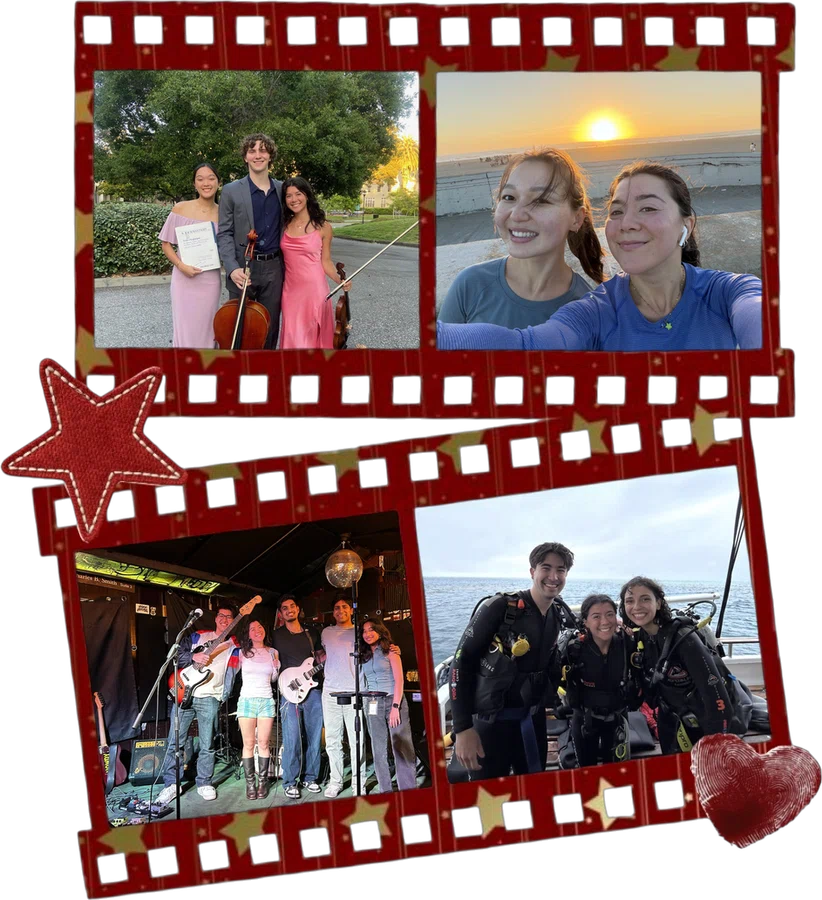
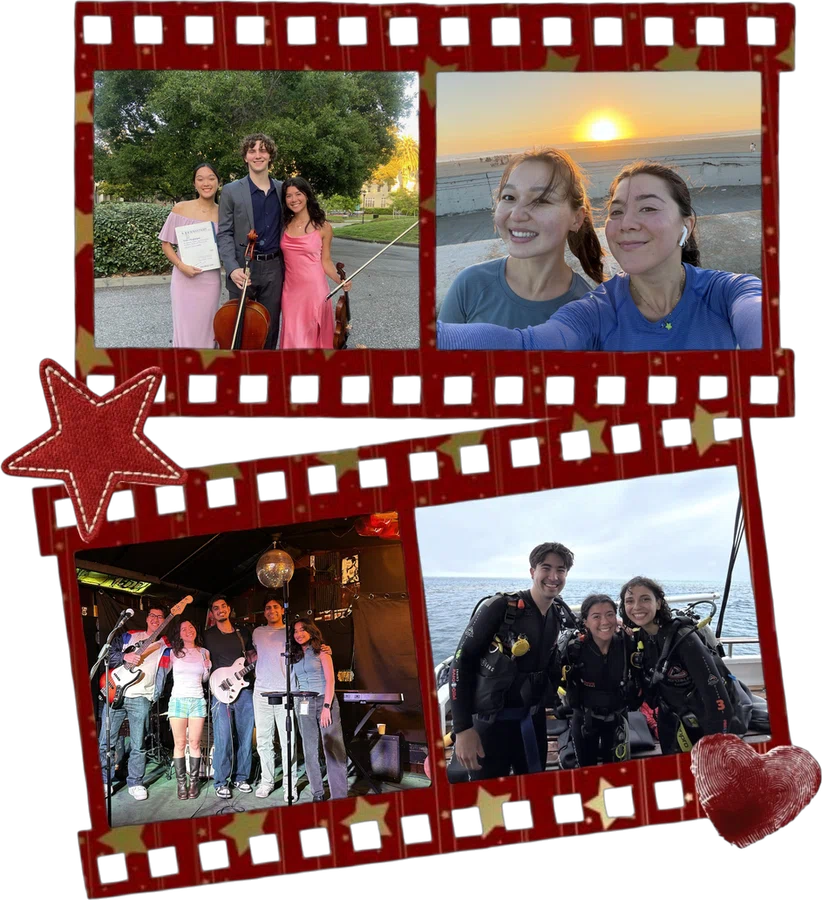
About: raise film strip, recenter band photo

Changed region(s): [[0.0912, 0.56, 0.5474, 0.9333]]

diff --git a/css/sheet.css b/css/sheet.css
@@ -537,7 +537,7 @@ body.sheet-page {
 /* off the clock: red film of photos + SF camera */
 .about__camera, .about__film { position: relative; margin: 0; }
 .about__camera img, .about__film img { display: block; width: 100%; height: auto; }
-.about__film { grid-column: 1; grid-row: 2; align-self: start; margin-top: calc(-1 * clamp(24px, 5.5cqw, 66px)); margin-left: var(--pad); width: min(100% - var(--pad), 560px); justify-self: center; }
+.about__film { grid-column: 1; grid-row: 2; align-self: start; margin-top: calc(-1 * clamp(36px, 7.5cqw, 90px)); margin-left: var(--pad); width: min(100% - var(--pad), 560px); justify-self: center; }
 .about__side { grid-column: 2; grid-row: 2; margin-top: clamp(16px, 2cqw, 28px); }
 .about__side .about__clock { margin: 0 0 clamp(24px, 3cqw, 36px); }
 .about__camera { width: 100%; transform: rotate(-4deg); }
